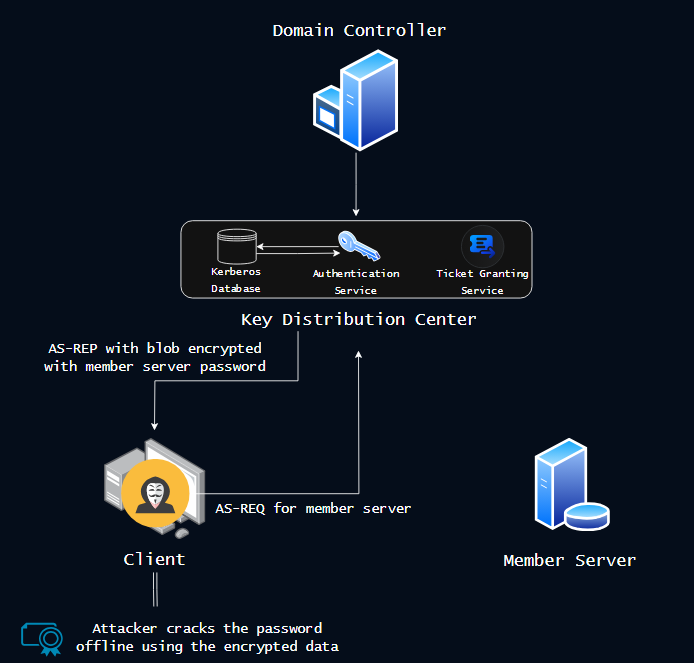
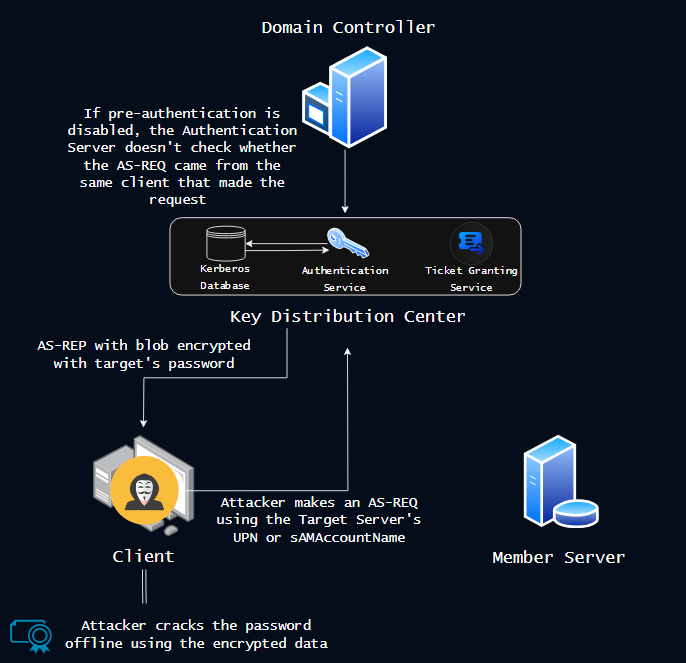
adding extra

Changed region(s): [[0.0612, 0.0302, 0.7653, 0.905], [0.0, 0.9351, 0.4898, 0.9955], [0.7041, 0.6335, 0.9184, 0.8748]]

diff --git a/_posts/2025-06-23-Kerberoasting.md b/_posts/2025-06-23-Kerberoasting.md
@@ -1,7 +1,7 @@
 ---
 layout: single
 title: Understanding Kerberoasting from Start to Finish
-excerpt: Kerberoasting - an attack technique first discovered almost a decade ago and yet still remains prevalent as a valid technique for password cracking and pass the hash attacks, enabling privilege escalation and lateral movement within an Active Directory environment.  Due to the popularity of the attack, there have been countless tools already created to scan for and abuse Kerberoasting easily.  Having used this attack before many times in CTFs and while studying for my OSCP I believed that I understood how it worked, but recently I was asked to explain it fully and I found myself grasping at terms making me realize I didn't quite know this technique as well as I thought!"
+excerpt: Kerberoasting - an attack technique first discovered almost a decade ago and yet still remains prevalent as a valid technique for password cracking and pass the hash attacks, enabling privilege escalation and lateral movement within an Active Directory environment.  Due to the popularity of the attack, there have been countless tools already created to scan for and abuse Kerberoasting easily.  Having seen and used this attack before many times, I wanted to take the time to go in-depth and explain how it works!
 date: 25-06-2025
 classes: wide
 header:
@@ -44,15 +44,11 @@ To perform its role as the trusted third-party, the KDC has the following compon
 
 ### The Initial Authentication (AS-REQ & AS-REP)
 
-In the beginning, the client needs to confirm that the KDC is actually the KDC.  Conversely, the KDC also needs the client to prove that it is who they claim to be. So, to eastablish this initial trust between client and KDC, the client initiates an authentication server request (AS-REQ).  In the AS-REQ message, the client includes information about itself such as the Principal Name (unique identifier of an Active Directory object) and a request for a ticket to communicate with the Ticket Granting Service (TGS).
-
-When the AS receives the AS-REQ message, it searches the Kerberos database for the client's principal name.  If the client is in the database, the AS determines the request is legitimate and sends an authentication server response (AS-REP) message.  The AS-REP message contains two very important pieces of information: an encrypted string of data which is the **Ticket Granting Ticket (TGT)**.  When send to the TGS, the TGT contains information that the ticket is owned by the client, how long the ticket is valid for, and a session key that is used to encrypt communication back and forth between the client and the TGS.  The TGT is encrypted using a key derived from the TGS's password (often the krbtgt account).
-
-The second part of the AS-REP message is another string of encrypted data called the **session key**.  This is the same session key enclosed in the TGT, but this session key was encrypted using a key derived from the *client's* password.  The client can decrypt the secret key and use the key to encrypt communication between itself and the TGS.  
+Every client/server connection begins with authentication to the KDC to verify to the party on each end of the connection that the identity of both ends is genuine.  To eastablish trust between client and KDC, the client initiates an authentication server request (AS-REQ).  The AS-REQ message contains information about the client such as the client's principal name, the service being requested (TGS), and a timestamp encrypted with a key that is derived from the client's password.
 
 When the AS receives the AS-REQ message, it searches the Kerberos database for the client's principal name and attempts to decrypt the timestamp using the client's associated password hash in the database.  If the decryption is successful and the timestamp is within an acceptable timeframe, the AS determines that the request is legitimate and that the client knows their password and can be trusted.
 
-Now that the AS trusts the client, it responds back with an authentication server response (AS-REP) message.  The main part of the AS-REP message is a blob of data, including a string known as a session key, that the KDC encrypts using the target member server's password that is referred to as the "ticket".  The other part of the AS-REP message is metadata encrypted using the client's key that contains useful information about the contents of the ticket and includes the same session key that is in the ticket's data.
+Now that the AS trusts the client, it responds back with an authentication server response (AS-REP) message.  The main part of the AS-REP message is a blob of data, including a string known as a session key, that the KDC encrypts using the special **krbtgt** account's password that is referred to as the "Ticket Granting Ticket".  The other part of the AS-REP message is metadata encrypted using the client's key that contains useful information about the contents of the ticket and includes the same session key that is in the ticket's data.
 
 <p align="center">
   <img src="/assets/images/Kerberoasting/ASREQandASREP.png">
@@ -66,13 +62,42 @@ The session key is now a shared secret that establishes trust between the client
 
 ### RED ALERT! - Something's roasting.. AS-REP Roasting!
 
-In this form, the client has the ability to ask the KDC to return an AS-REP message for domain objects, each AS-REP message contains a blob of data encrypted with a key derived from the object's password.  This screams DANGER!  A malicious actor could weaponize theses requests to gather hash-like encrypted blobs that could be bruteforced offline to attempt to reverse the target domain object's password.  This attack is known as AS-REP roasting.
+Kerberos can be configured so that pre-authentication is disabled, which means that when the KDC received an AS-REQ message, it doesn't require an encrypted timestamp to check whether the AS-REQ message was made by a client that knew its own password.  Instead, the KDC receives the AS-REQ and immediately returns an AS-REP with a TGT and a blob of data encrypted with a key derived from the client's password.
+
+This can be abused by attackers, who can make malicious AS-REQ requests using the UPNs of other users and machine accounts in the domain.  The KDC doesn't verify the requests and gives the attacker a blob of data that can be brute-forced in offline cracking attacks to discover user passwords.  This attack is known as AS-REP Roasting!
 
 <p align="center">
   <img src="/assets/images/Kerberoasting/asreproasting.png">
 </p>
 
-### The Solution: Pre-Authentication and the Ticket Granting Ticket
+### A Ticket to Ride - The TGS-REQ and TGS-REP
+
+Now that the client has authenticated itself to the KDC, the client needs to use its TGT to request access to the member server it wants to interact with.  This request is called a Ticket Granting Service Request (TGS-REQ).  The TGS-REQ is, in many ways, identical to the AS-REQ.  The only differences being that the messages includes the client's TGT received from the AS-REP which is labeled in the TGS-REQ as "pre-auth data" and the TGS-REQ includes the names of the requested service.  The TGS-REQ is handled by the Ticket Granting Service (TGS) rather than the Authentication Service (AS).
+
+When the TGS received the message, it first verifies the pre-auth data (the TGT).  The TGT is encrypted using the **krbtgt** account password, which only the KDC knows.  Once the KDC is able to decrypt the TGT, it verifies the included session key which only the Client the TGT was issued to should know.  If the session key matches, then the TGS has verified that the KDC issued the ticket to the client and that the TGT came from the client and so the TGS generates a Ticket Granting Service Response (TGS-REP) message.
+
+The TGS-REP is comprised of two parts: the **Ticket Granting Service Ticket or Service Ticket** and the **enc-part**.  For the Service Ticket, the TGS finds the service/account requested in the TGS-REQ in the Kerberos Database and uses the account's associated password to generate a key used to encrypt the Service Ticket.  This way, the ticket can only be used for the requested service.  The Service Ticket includes the Client's UPN, the name of the target service, a new session key used for encryption between the client and the service, and additional useful metadata.
+
+The enc-part is encrypted using the client's session key from the AS-REP and contains the new session key that was included in the Service Ticket that will be used for encrypted communication with the requested service, and additional useful metadata such as ticket validity details and timestamps.
+
+<p align="center">
+  <img src="/assets/images/Kerberoasting/TGSREQandTGSREP.png">
+</p>
+
+### Final Steps - Communicating with the Application
+
+The Client now has a Service Ticket with the session key it needs to communicate securely with the target service.  To commmunicate with the application, the client takes the encrypted Service Ticket and converts it into an **Application Request (AP-REQ)** message.  The AP-REQ, like most of our REQ messages so far, is comprised of two main parts: the Service Ticket, and an authenticator encrypted using the session key the client received from the TGS-REP.
+
+The service will receive the AP-REQ and decrypt the Service Ticket using its own password, and verify the session ID.  If the decryption is successful, the service will respond with an AP-REP message that confirms that the service was able to decrypt the Service Ticket issued by the KDC and that secure communication is established.
+
+<p align="center">
+  <img src="/assets/images/Kerberoasting/APREQandAPREP.png">
+</p>
+
+
+
+
+
 
 
 
